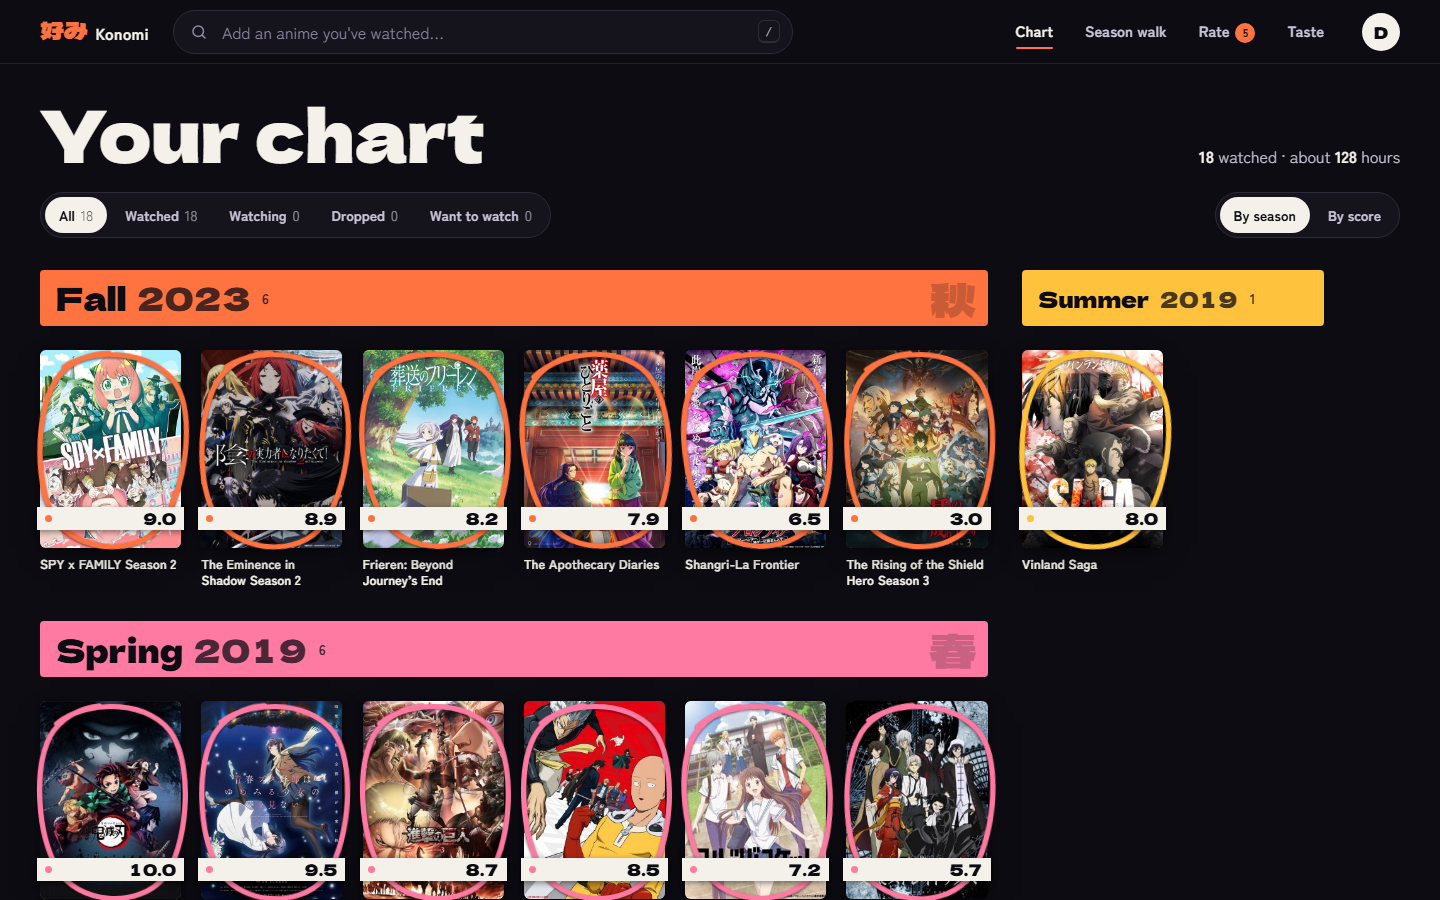
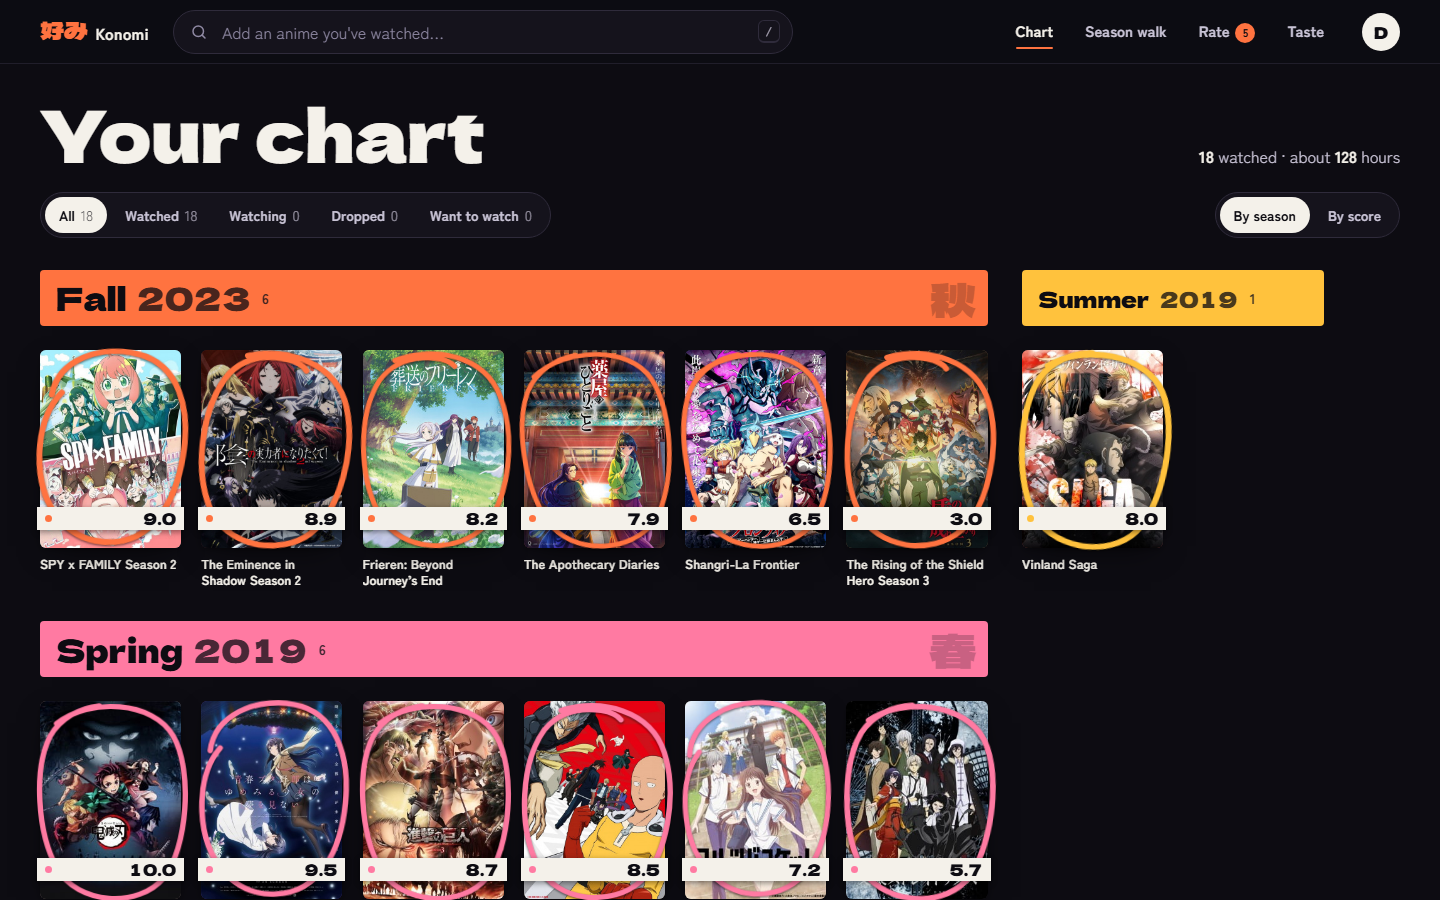
Quiet resend limits; varied hand-drawn marks

diff --git a/web/src/components/Mark.tsx b/web/src/components/Mark.tsx
@@ -1,27 +1,32 @@
 import type { Status } from '../lib/types'
 import './mark.css'
 
-/**
- * Hand-drawn status marks laid over a cover, in the season ink.
- * completed = circled, watching = half arc, dropped = struck through, planned = dotted ring.
- * The stroke draws itself once when `animate` is set (the signature interaction).
- */
+// Three hand-drawn strokes per mark, so a wall of circled covers never looks stamped.
+const CIRCLES = [
+  'M18 22c20-16 58-14 70 8 12 22 8 70-6 88-15 19-52 17-64-6C6 90 4 50 14 30c6-11 18-18 30-19',
+  'M30 14c24-8 54 0 62 26 8 26 2 64-14 80-17 16-50 14-62-10C4 86 6 46 20 26c8-10 20-14 34-12 6 1 10 3 12 6',
+  'M12 40C14 18 38 6 62 10c24 4 34 30 32 60-2 30-14 56-40 58-26 2-44-20-46-50-1-16 2-30 10-40',
+]
+const ARCS = [
+  'M14 118C2 90 4 44 22 24c18-20 52-16 66 6',
+  'M20 124C4 100 2 52 16 30 30 8 62 4 84 22',
+  'M10 110C6 80 12 40 32 22c20-18 46-12 58 4',
+]
+const STRIKES = ['M10 128 92 10', 'M8 120c26-36 52-74 86-108', 'M14 130 88 14c1-2 2-3 4-4']
+
 export function Mark({ status, animate = false, seed = 0 }: { status: Status; animate?: boolean; seed?: number }) {
-  // Small per-cover wobble so marks never look stamped.
   const j = ((seed * 9301 + 49297) % 233280) / 233280
+  const v = seed % 3
   const rot = -8 + j * 16
+  const width = 2.8 + j * 0.9
   const cls = `mark mark-${status}${animate ? ' mark-draw' : ''}`
   return (
     <svg className={cls} viewBox="0 0 100 140" preserveAspectRatio="none" aria-hidden="true"
-      style={{ transform: `rotate(${rot.toFixed(1)}deg)` }}>
-      {status === 'completed' && (
-        <path pathLength={1} d="M18 22c20-16 58-14 70 8 12 22 8 70-6 88-15 19-52 17-64-6C6 90 4 50 14 30c6-11 18-18 30-19" />
-      )}
-      {status === 'watching' && <path pathLength={1} d="M14 118C2 90 4 44 22 24c18-20 52-16 66 6" />}
-      {status === 'dropped' && <path pathLength={1} d="M10 128 92 10" />}
-      {status === 'planned' && (
-        <path pathLength={1} className="dots" d="M18 22c20-16 58-14 70 8 12 22 8 70-6 88-15 19-52 17-64-6C6 90 4 50 14 30" />
-      )}
+      style={{ transform: `rotate(${rot.toFixed(1)}deg)`, strokeWidth: status === 'dropped' ? width + 0.4 : width }}>
+      {status === 'completed' && <path pathLength={1} d={CIRCLES[v]} />}
+      {status === 'watching' && <path pathLength={1} d={ARCS[v]} />}
+      {status === 'dropped' && <path pathLength={1} d={STRIKES[v]} />}
+      {status === 'planned' && <path pathLength={1} className="dots" d={CIRCLES[v]} />}
     </svg>
   )
 }

diff --git a/web/src/components/mark.css b/web/src/components/mark.css
@@ -7,14 +7,14 @@
   overflow: visible;
   fill: none;
   stroke: var(--season);
-  stroke-width: 3.2;
+
   stroke-linecap: round;
   stroke-linejoin: round;
   vector-effect: non-scaling-stroke;
   filter: drop-shadow(0 1px 1px rgb(0 0 0 / 0.6));
 }
 .mark path { stroke-dasharray: 1; stroke-dashoffset: 0; }
-.mark-dropped { stroke: var(--paper); stroke-width: 3.6; }
+.mark-dropped { stroke: var(--paper); }
 .mark-dropped path { stroke-dasharray: 1; }
 .mark-planned path.dots { stroke-dasharray: 0.012 0.03; stroke-width: 3.6; }
 .mark-draw path { animation: mark-draw 0.7s var(--ease-out) both; stroke-dashoffset: 1; }

diff --git a/api/konomi_api/auth/routes.py b/api/konomi_api/auth/routes.py
@@ -61,6 +61,16 @@ def _ip(request: Request) -> str:
 _DUMMY_HASH = hash_password("timing-equaliser-not-a-password")
 
 
+def _issue_quietly(db, email: str, **pending) -> None:
+    """Send a sign-up code, but inside the resend limits answer exactly like a fresh sign-up would:
+    a 429 here would reveal that this email has a pending sign-up. The earlier code is still valid."""
+    try:
+        otp.issue(db, email, "verify", **pending)
+    except HTTPException as e:
+        if e.status_code != 429:
+            raise
+
+
 @router.post("/signup", status_code=202)
 def signup(body: SignupIn, db: Db, request: Request) -> dict:
     username = body.username.strip().lower()
@@ -74,7 +84,7 @@ def signup(body: SignupIn, db: Db, request: Request) -> dict:
     if db.scalars(select(User).where(User.username == username)).first():
         raise HTTPException(409, {"code": "username_taken"})
     # Nothing is created yet: the credentials ride on this code and become an account only at /verify.
-    otp.issue(db, email, "verify", pending_hash=hash_password(body.password), pending_username=username)
+    _issue_quietly(db, email, pending_hash=hash_password(body.password), pending_username=username)
     return {"ok": True}
 
 
@@ -103,7 +113,7 @@ def resend(body: EmailIn, db: Db) -> dict:
     email = body.email.lower()
     pending = otp.latest_pending(db, email)
     if pending and not db.scalars(select(User).where(User.email == email)).first():
-        otp.issue(db, email, "verify", pending_hash=pending.pending_hash, pending_username=pending.pending_username)
+        _issue_quietly(db, email, pending_hash=pending.pending_hash, pending_username=pending.pending_username)
     return {"ok": True}
 
 

diff --git a/api/tests/test_auth.py b/api/tests/test_auth.py
@@ -1,3 +1,4 @@
+import httpx
 from sqlalchemy import text
 
 from konomi_api.db import engine
@@ -41,7 +42,9 @@ def test_expired_code_rejected(client):
 def test_resend_rate_limited(client):
     client.post("/api/auth/signup", json={"email": E, "username": "aki", "password": P})
     r = client.post("/api/auth/resend", json={"email": E})
-    assert r.status_code == 429
+    assert r.status_code == 202  # quiet: no 429 that would reveal a pending sign-up
+    msgs = httpx.get("http://localhost:8025/api/v1/search", params={"query": f"to:{E}"}).json()["messages"]
+    assert len(msgs) == 1  # but no second mail inside the 60 s gap
 
 
 def test_login_unverified_403(client):

diff --git a/api/tests/test_review_fixes.py b/api/tests/test_review_fixes.py
@@ -94,3 +94,10 @@ def test_og_fetcher_refuses_unknown_hosts():
     from konomi_api.profile.og import fetch_image
     assert fetch_image("http://169.254.169.254/latest/meta-data") is None
     assert fetch_image("http://localhost:8000/api/me") is None
+
+
+def test_repeat_signup_does_not_reveal_pending_account(client):
+    body = {"email": E, "username": "victim", "password": "victim-pass-1"}
+    assert client.post("/api/auth/signup", json=body).status_code == 202
+    # A second sign-up inside the resend gap looks exactly like a first one (no 429 that would reveal it).
+    assert client.post("/api/auth/signup", json=body).status_code == 202
